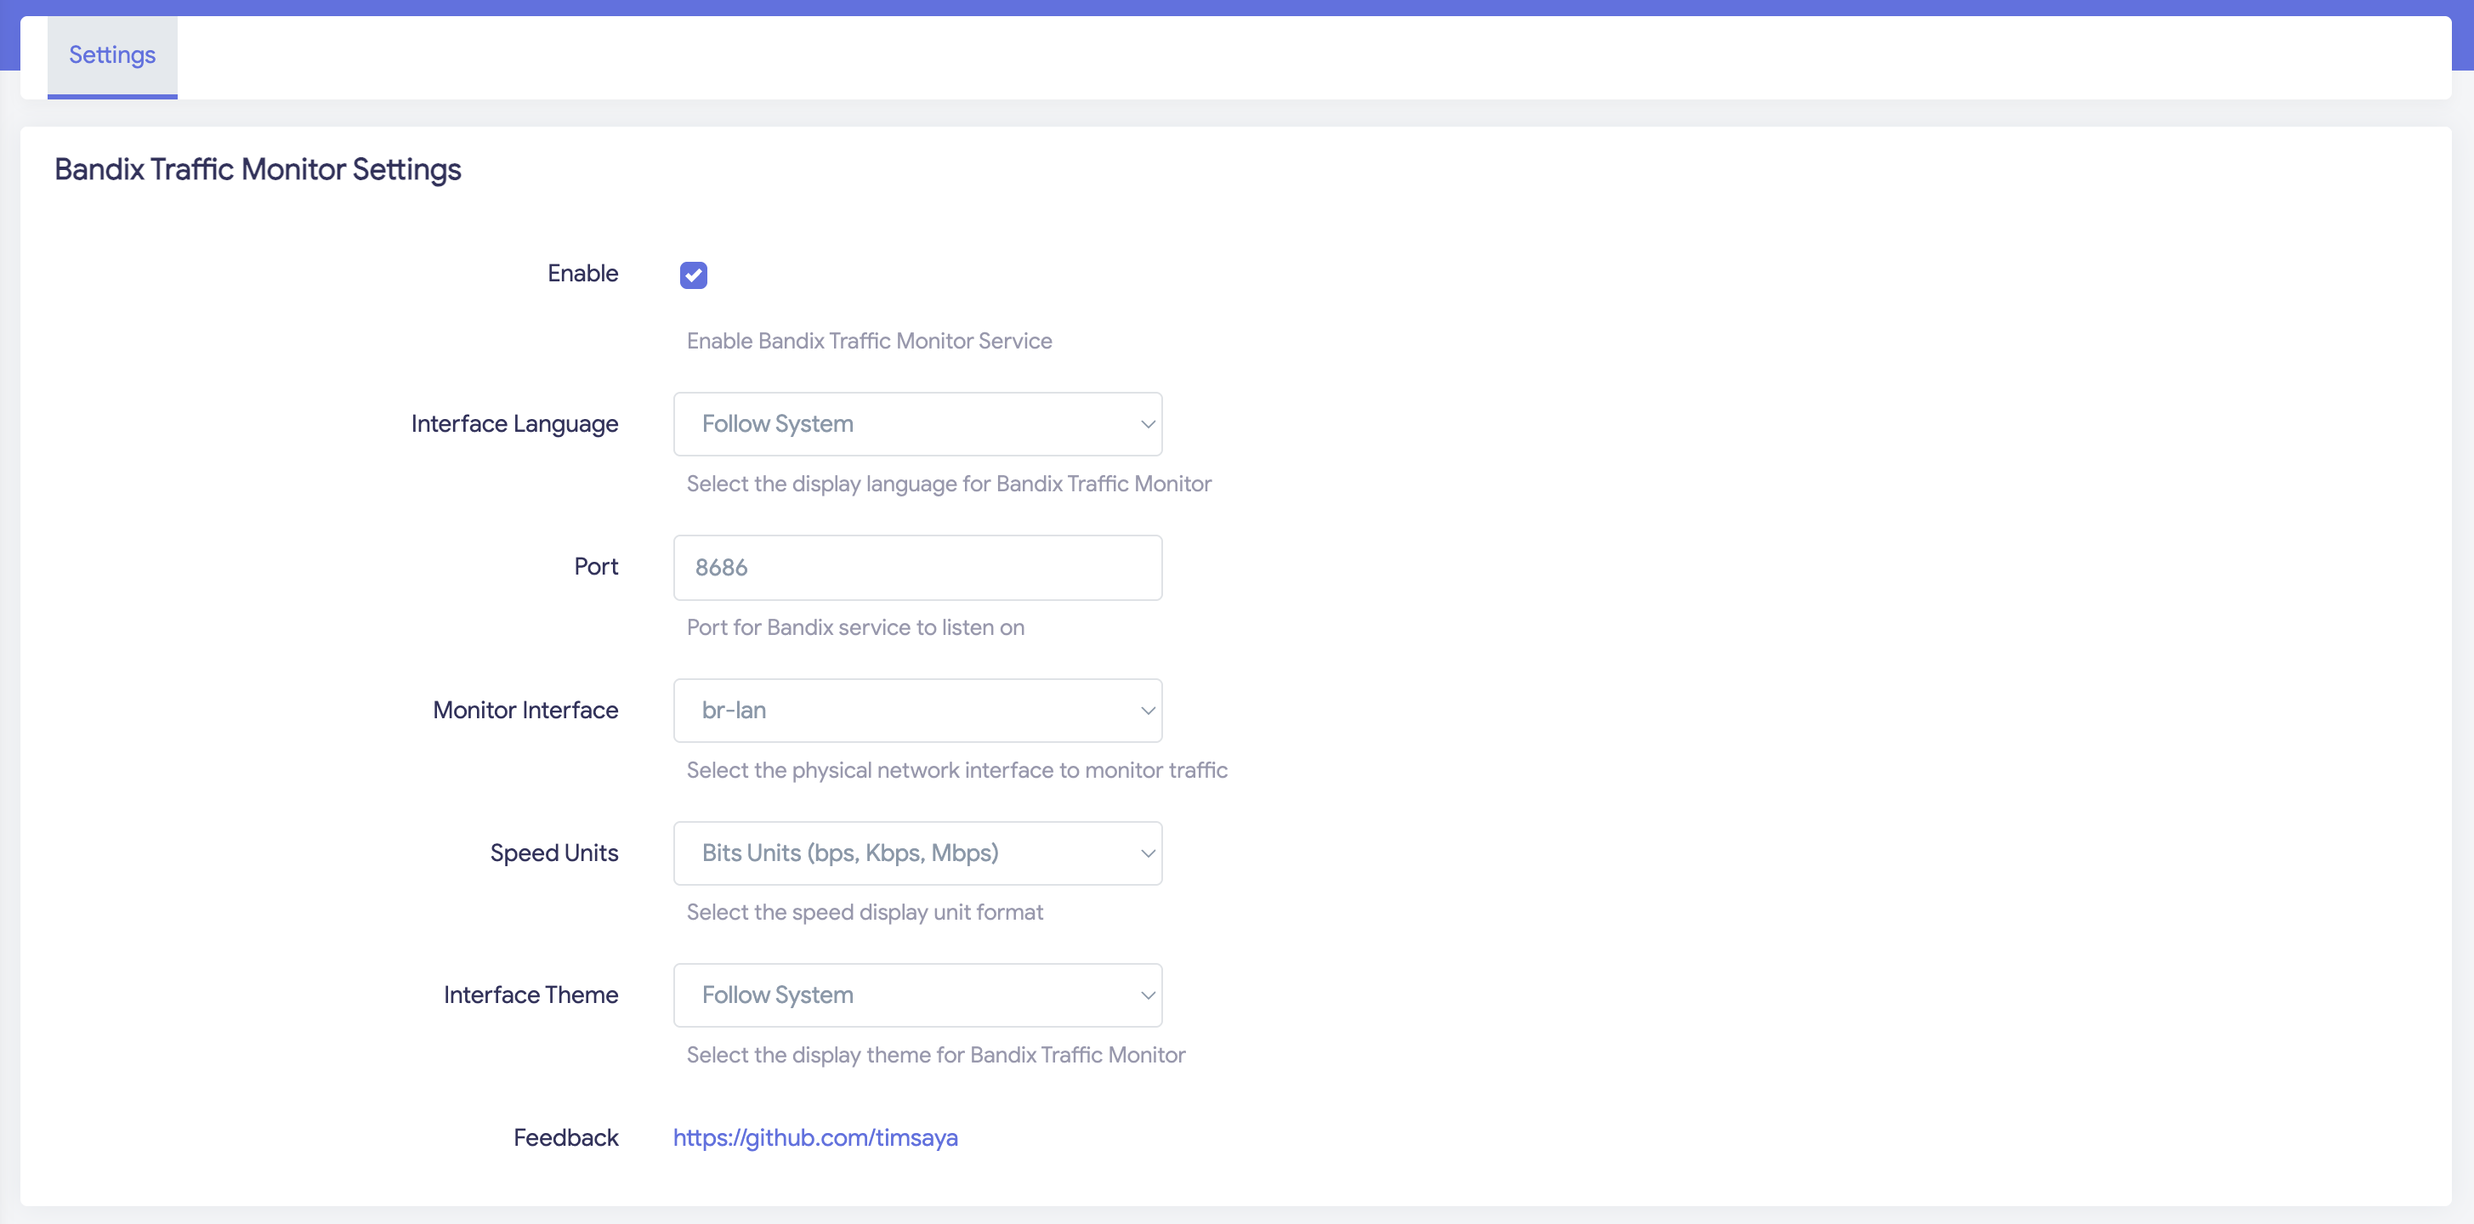
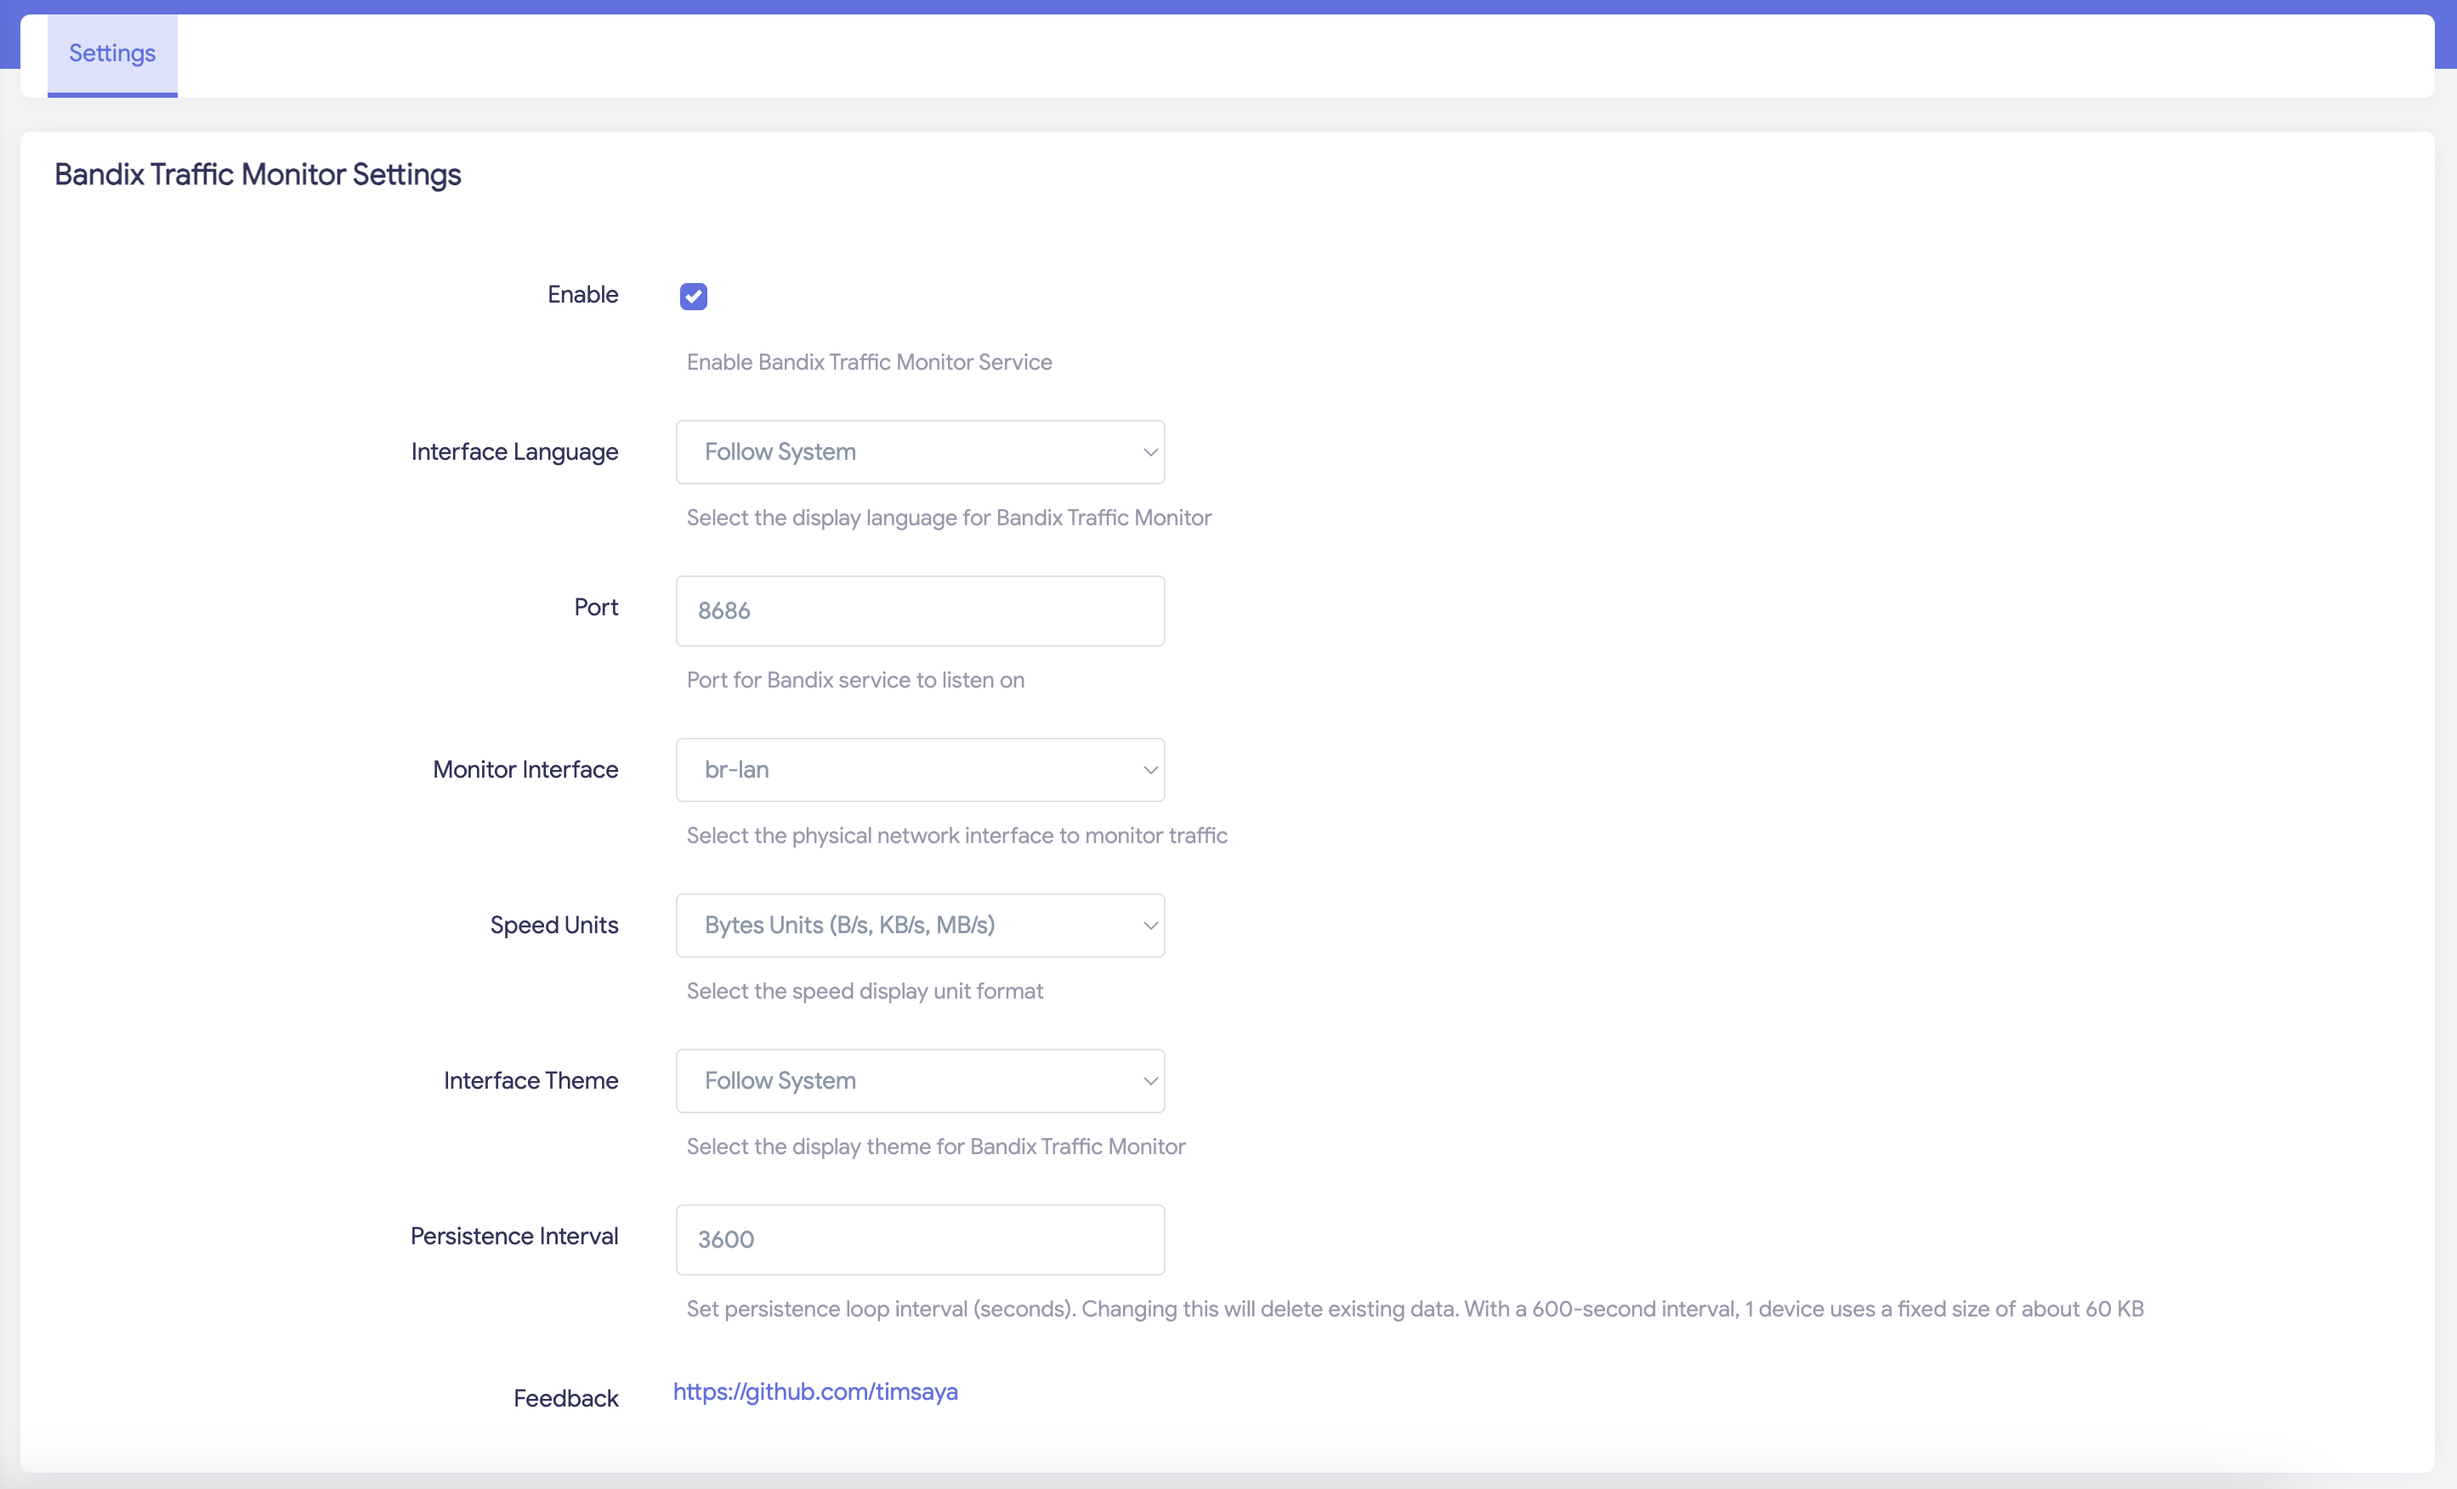
release 0.4.0

diff --git a/README.md b/README.md
@@ -12,7 +12,9 @@ LuCI Bandix is a network traffic monitoring application for OpenWrt, providing i
 LuCI Bandix is developed based on the LuCI framework, offering network traffic monitoring capabilities for OpenWrt routers. This application depends on the openwrt-bandix backend service and helps users view and analyze network traffic statistics in real-time.
 
 
-![LuCI Bandix Screenshot](docs/images/index.png)
+![LuCI Bandix Screenshot](docs/images/index-1.png)
+
+![LuCI Bandix Screenshot](docs/images/index-2.png)
 
 ![LuCI Bandix Screenshot](docs/images/settings.png)
 
@@ -35,6 +37,8 @@ Join our Discord community for help, discussions, and updates:
 - High-performance implementation based on Rust eBPF
 - Support for LAN/WAN speed monitoring
 - Support for WAN speed limitation
+- Persistent data storage
+- Historical traffic trends and charts
 
 ## Version Dependencies
 
@@ -44,6 +48,7 @@ The following table shows the version dependency relationship between luci-app-b
 |------------------------|--------------------------------|
 | 0.2.x                  | 0.2.x                          |
 | 0.3.x                  | 0.3.x                          |
+| 0.4.x                  | 0.4.x                          |
 
 Please ensure you install matching versions to ensure compatibility and proper functionality.
 
